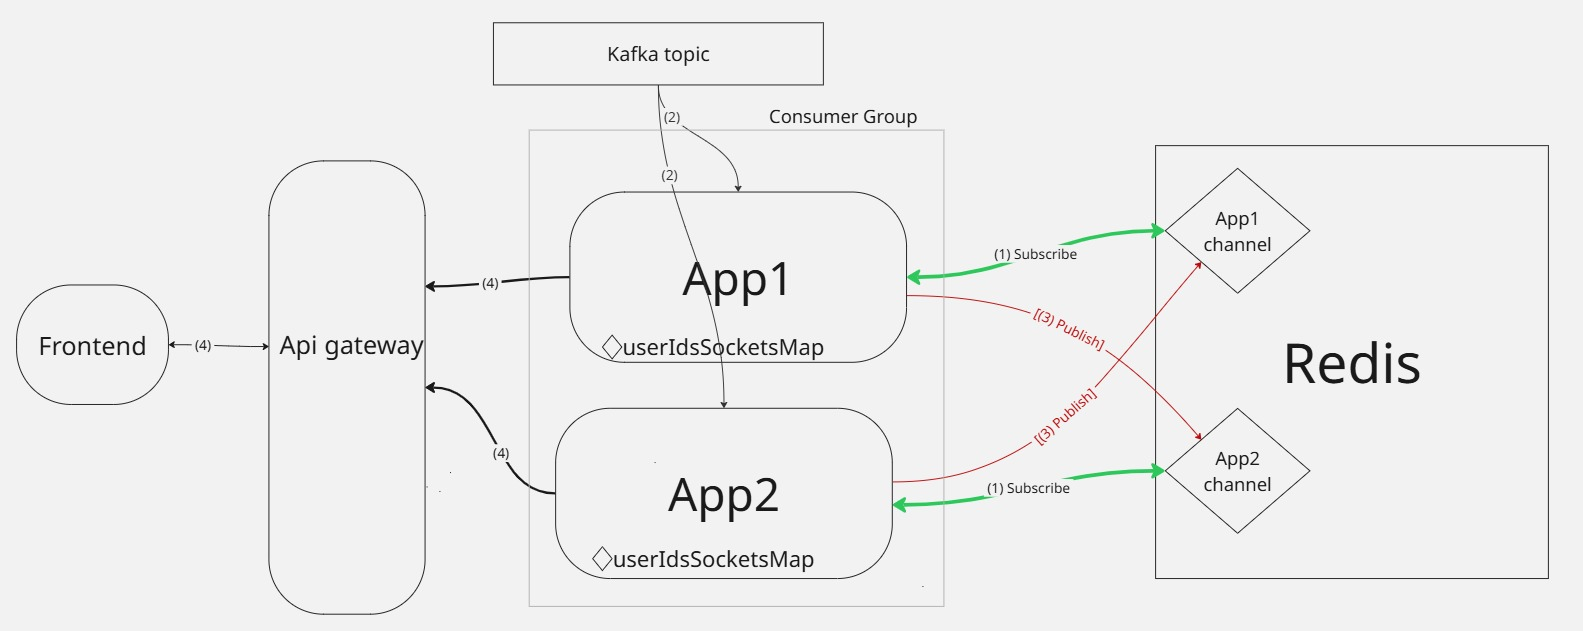
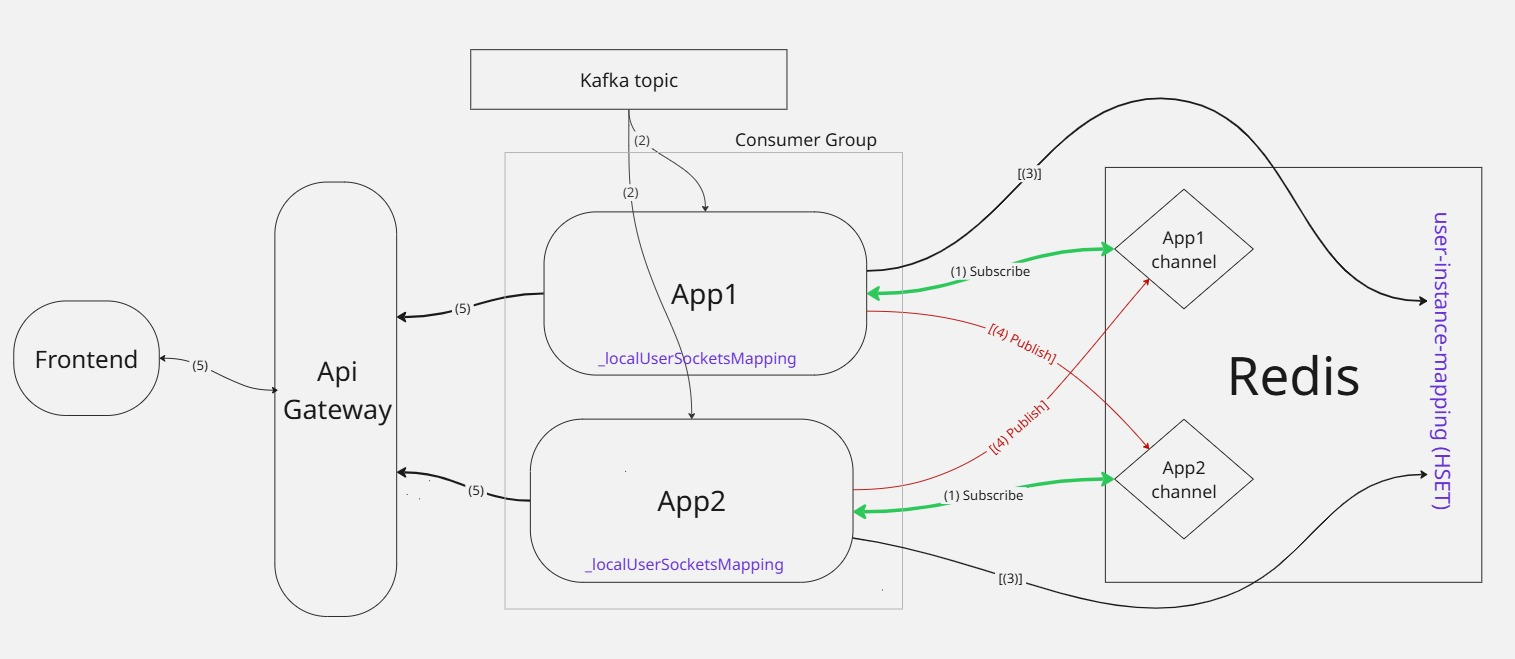
Fixed image in README.md

diff --git a/backend/realtime-notifications/src/ConnectionManager.cs b/backend/realtime-notifications/src/ConnectionManager.cs
@@ -13,7 +13,7 @@ public class ConnectionManager
     private readonly IConnectionMultiplexer _redis;
     private readonly IDatabase _redisDb;
     private const string RedisChannelPrefix = "ws-notifications:";
-    private const string UserInstanceMappingHash = "user-instance-mappings";
+    private const string UserInstanceMappingHash = "user-instance-mapping";
     
     private readonly string _instanceId;
     private readonly ILogger<ConnectionManager> _logger;
@@ -21,7 +21,7 @@ public class ConnectionManager
     // Maps each userId to their active WebSocket connections.
     // ConcurrentDictionary<WebSocket, byte> is used as a thread-safe set (no built-in ConcurrentHashSet in .NET).
     // The byte value is ignored; only the keys (WebSockets) matter.
-    private readonly ConcurrentDictionary<string, ConcurrentDictionary<WebSocket, byte>> _userSockets = new();
+    private readonly ConcurrentDictionary<string, ConcurrentDictionary<WebSocket, byte>> _localUserSocketsMapping = new();
 
     public ConnectionManager(IConnectionMultiplexer redis, ILogger<ConnectionManager> logger)
     {
@@ -45,7 +45,7 @@ public class ConnectionManager
 
     public async Task RegisterConnection(string userId, WebSocket socket)
     {
-        var userConnections = _userSockets.GetOrAdd(userId, _ => new ConcurrentDictionary<WebSocket, byte>());
+        var userConnections = _localUserSocketsMapping.GetOrAdd(userId, _ => new ConcurrentDictionary<WebSocket, byte>());
         userConnections.TryAdd(socket, 0);
         
         // Store mapping from userId to this instance ID in Redis hash (HSET)
@@ -57,12 +57,12 @@ public class ConnectionManager
 
     public async Task UnregisterConnection(string userId, WebSocket socket)
     {
-        if (_userSockets.TryGetValue(userId, out var userConnections))
+        if (_localUserSocketsMapping.TryGetValue(userId, out var userConnections))
         {
             userConnections.TryRemove(socket, out _);
             if (userConnections.IsEmpty)
             {
-                _userSockets.TryRemove(userId, out _);
+                _localUserSocketsMapping.TryRemove(userId, out _);
                 
                 // Remove mapping from Redis hash when no more connections for this user (HDEL)
                 await _redisDb.HashDeleteAsync(UserInstanceMappingHash, userId);
@@ -76,7 +76,7 @@ public class ConnectionManager
     public async Task SendToUser(string userId, object payload)
     {
         // Check if user is connected locally
-        if (_userSockets.TryGetValue(userId, out var userConnections) && !userConnections.IsEmpty)
+        if (_localUserSocketsMapping.TryGetValue(userId, out var userConnections) && !userConnections.IsEmpty)
         {
             _logger.LogInformation(
                 "User {UserId} found locally on instance {InstanceId}, sending directly to {ConnectionCount} connections",
@@ -145,7 +145,7 @@ public class ConnectionManager
 
             var payload = data.payload;
 
-            if (_userSockets.TryGetValue(userId, out var userConnections))
+            if (_localUserSocketsMapping.TryGetValue(userId, out var userConnections))
             {
                 await SendToLocalConnections(userId, payload, userConnections);
             }

diff --git a/backend/realtime-notifications/README.md b/backend/realtime-notifications/README.md
@@ -6,21 +6,8 @@ This service is responsible for delivering real-time notifications to the fronte
 
 - **.NET 8**: Runtime environment (ASP.NET Core Web API).
 - **WebSocket**: Native ASP.NET Core WebSocket middleware for real-time connections.
-- **Kafka (Confluent.Kafka)**: Consumes events from the `orgcarfleet-notifications` topic.
-- **Redis (StackExchange.Redis)**: Used for horizontal scalability (Pub/Sub) to broadcast events across instances.
-
-## Configuration
-
-The service is configured via `appsettings.json` and environment variables:
-
-- **Port**: Configured in `launchSettings.json` (`applicationUrl`) for local development, or via environment in Docker/K8s (default: 8080).
-- **Kafka**: Configured via the `Kafka` section in `appsettings.json` using the Options pattern:
-  - `Kafka__BootstrapServers`: Kafka broker address
-  - `Kafka__GroupId`: Consumer group ID
-  - `Kafka__Topics`: Array of topics to consume
-  - `Kafka__AutoOffsetReset`: Offset reset behavior
-  - `Kafka__EnableAutoCommit`: Auto-commit setting
-- **Redis**: Configured via `REDIS_URL` (connection string with host, port, and password)
+- **Kafka**: Consumes events from the `orgcarfleet-notifications` topic.
+- **Redis**: Used for horizontal scalability (Pub/Sub) to broadcast events across instances.
 
 ## Scalability
 
